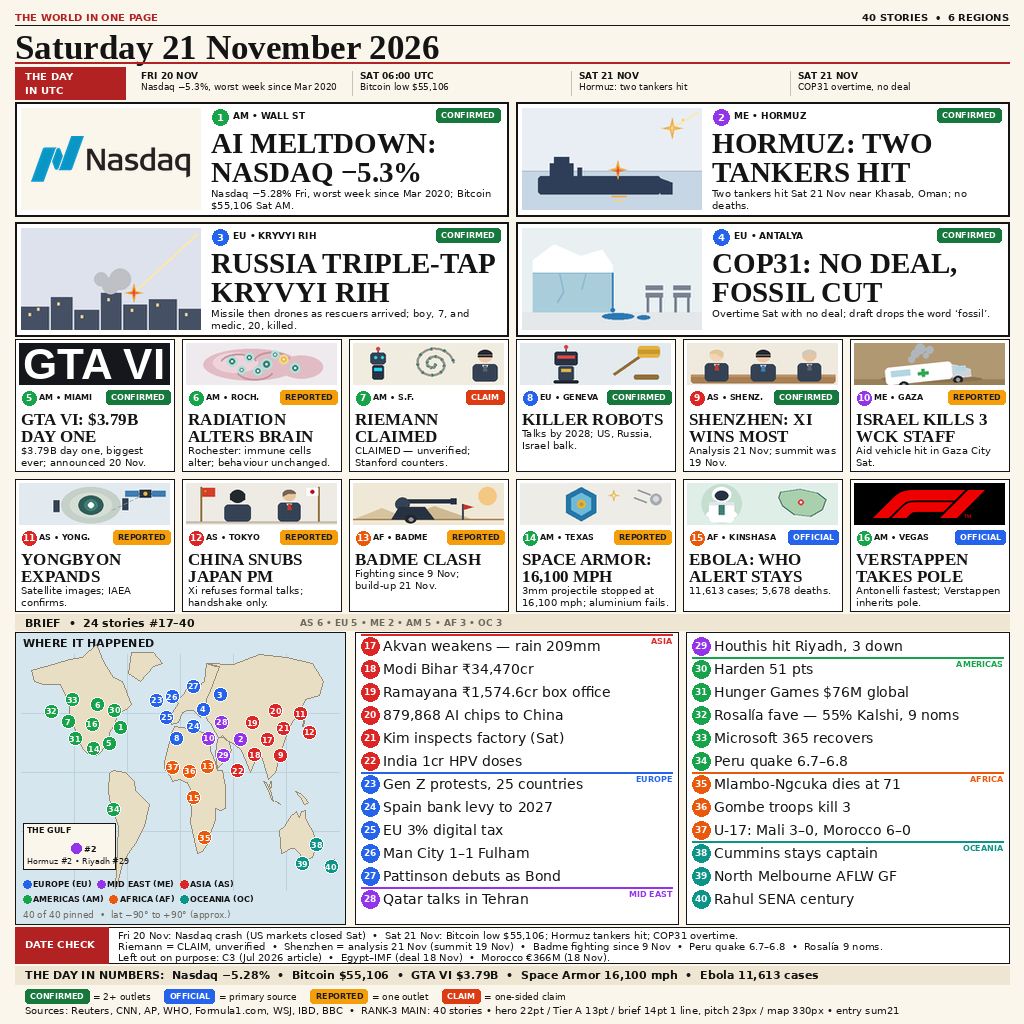
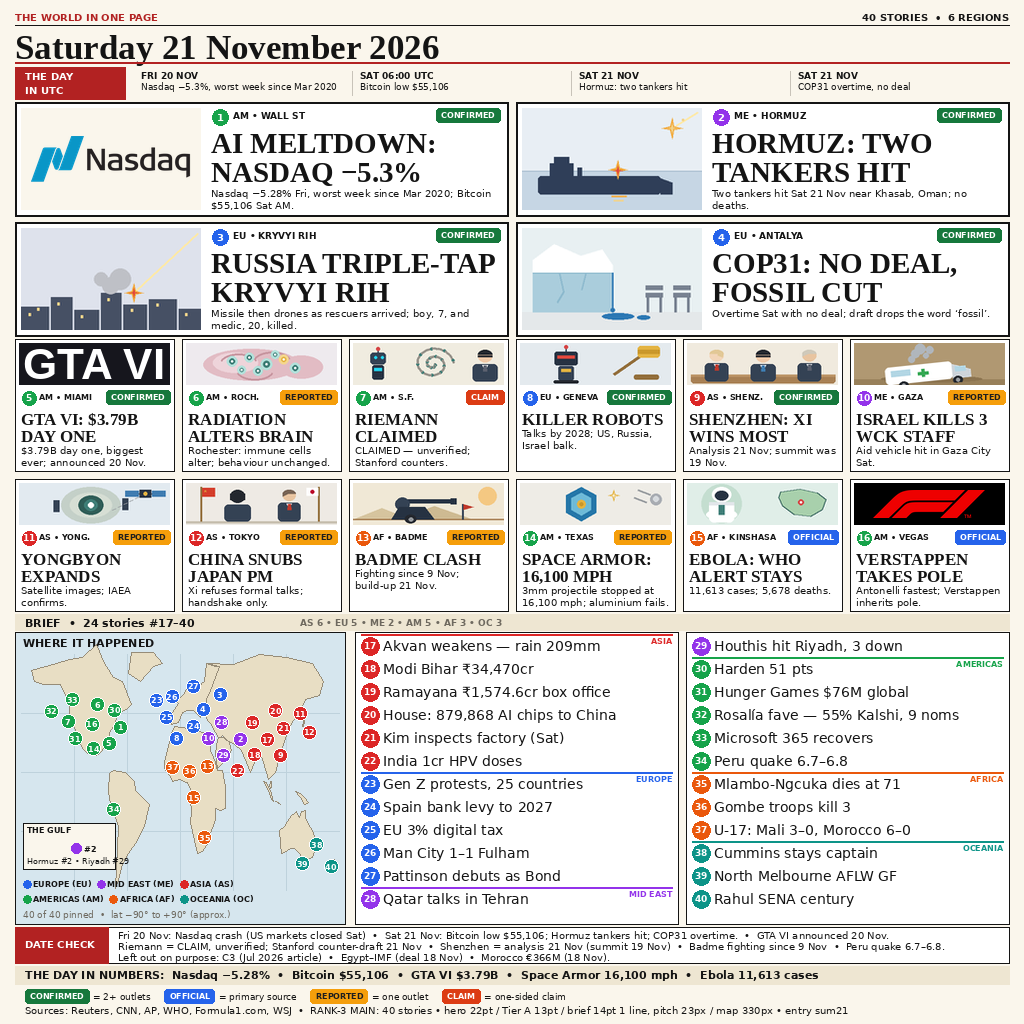
sum21 M2: audit konten + entry.png v2

diff --git a/render_entry.py b/render_entry.py
@@ -120,7 +120,7 @@ BRIEFS = [
     (17, "ASIA", 85.8, 20.3, "Akvan weakens \u2014 rain 209mm"),
     (18, "ASIA", 85.1, 25.6, "Modi Bihar \u20b934,470cr"),
     (19, "ASIA", 77.2, 28.6, "Ramayana \u20b91,574.6cr box office"),
-    (20, "ASIA", 116.4, 39.9, "879,868 AI chips to China"),
+    (20, "ASIA", 116.4, 39.9, "House: 879,868 AI chips to China"),
     (21, "ASIA", 125.75, 39.03, "Kim inspects factory (Sat)"),
     (22, "ASIA", 72.8, 19.07, "India 1cr HPV doses"),
     (23, "EUROPE", 4.35, 50.85, "Gen Z protests, 25 countries"),
@@ -455,8 +455,8 @@ def date_check(d, y, dh):
     d.rectangle([15, y, 108, y + dh], fill=RULE_RED)
     d.text((25, y + dh // 2 - 7), "DATE CHECK", font=F(10, bold=True), fill=(255, 255, 255))
     lines = [
-        "Fri 20 Nov: Nasdaq crash (US markets closed Sat)  \u2022  Sat 21 Nov: Bitcoin low $55,106; Hormuz tankers hit; COP31 overtime.",
-        "Riemann = CLAIM, unverified  \u2022  Shenzhen = analysis 21 Nov (summit 19 Nov)  \u2022  Badme fighting since 9 Nov  \u2022  Peru quake 6.7\u20136.8  \u2022  Rosal\u00eda 9 noms.",
+        "Fri 20 Nov: Nasdaq crash (US markets closed Sat)  \u2022  Sat 21 Nov: Bitcoin low $55,106; Hormuz tankers hit; COP31 overtime.  \u2022  GTA VI announced 20 Nov.",
+        "Riemann = CLAIM, unverified; Stanford counter-draft 21 Nov  \u2022  Shenzhen = analysis 21 Nov (summit 19 Nov)  \u2022  Badme fighting since 9 Nov  \u2022  Peru quake 6.7\u20136.8.",
         "Left out on purpose: C3 (Jul 2026 article)  \u2022  Egypt\u2013IMF (deal 18 Nov)  \u2022  Morocco \u20ac366M (18 Nov).",
     ]
     for j, ln in enumerate(lines):
@@ -484,7 +484,7 @@ def footer(d, y, dh, model_note):
         d.text((lx, ly + 2), meaning, font=mf, fill=INK)
         lx += mtw + 14
     text_fit(d, 25, y + 17,
-             "Sources: Reuters, CNN, AP, WHO, Formula1.com, WSJ, IBD, BBC  \u2022  " + model_note,
+             "Sources: Reuters, CNN, AP, WHO, Formula1.com, WSJ  \u2022  " + model_note,
              F(10), 970, "footer")
 
 # ---------------------------------------------------------------- build
